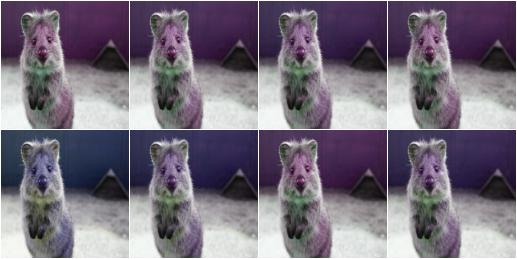
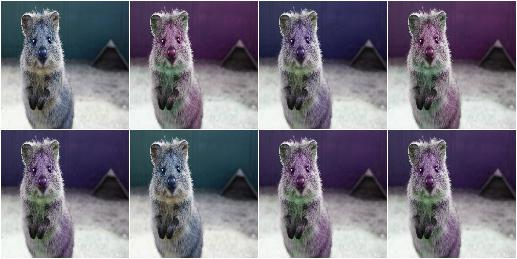
Improve RTD overview for WithColorspace

diff --git a/scripts/generate_rtd_images/gen_overview_color.py b/scripts/generate_rtd_images/gen_overview_color.py
@@ -18,12 +18,16 @@ def chapter_augmenters_withcolorspace():
     aug = iaa.WithColorspace(
         to_colorspace="HSV",
         from_colorspace="RGB",
-        children=iaa.WithChannels(0, iaa.Add((10, 50)))
+        children=iaa.WithChannels(
+            0,
+            iaa.Add((0, 50))
+        )
     )
     run_and_save_augseq(
         "color/withcolorspace.jpg", aug,
         [ia.quokka(size=(128, 128)) for _ in range(8)], cols=4, rows=2
     )
+
 
 def chapter_augmenters_changecolorspace():
     aug = iaa.Sequential([

diff --git a/source/overview/color.rst b/source/overview/color.rst
@@ -7,12 +7,23 @@ WithColorspace
 
 Apply child augmenters within a specific colorspace.
 
-Convert images to HSV, then increase each pixels H-value by 10 to 50::
+This augumenter takes a source colorspace A and a target colorspace B
+as well as children C. It changes images from A to B, then applies the
+child augmenters C and finally changes the colorspace back from B to A.
+See also ChangeColorspace() for more.
 
+Convert to ``HSV`` colorspace, add a value between ``0`` and ``50``
+(uniformly sampled per image) to the Hue channel, then convert back to the
+input colorspace (``RGB``). ::
+
+    import imgaug.augmenters as iaa
     aug = iaa.WithColorspace(
         to_colorspace="HSV",
         from_colorspace="RGB",
-        children=iaa.WithChannels(0, iaa.Add((10, 50)))
+        children=iaa.WithChannels(
+            0,
+            iaa.Add((0, 50))
+        )
     )
 
 .. figure:: ../../images/overview_of_augmenters/color/withcolorspace.jpg
